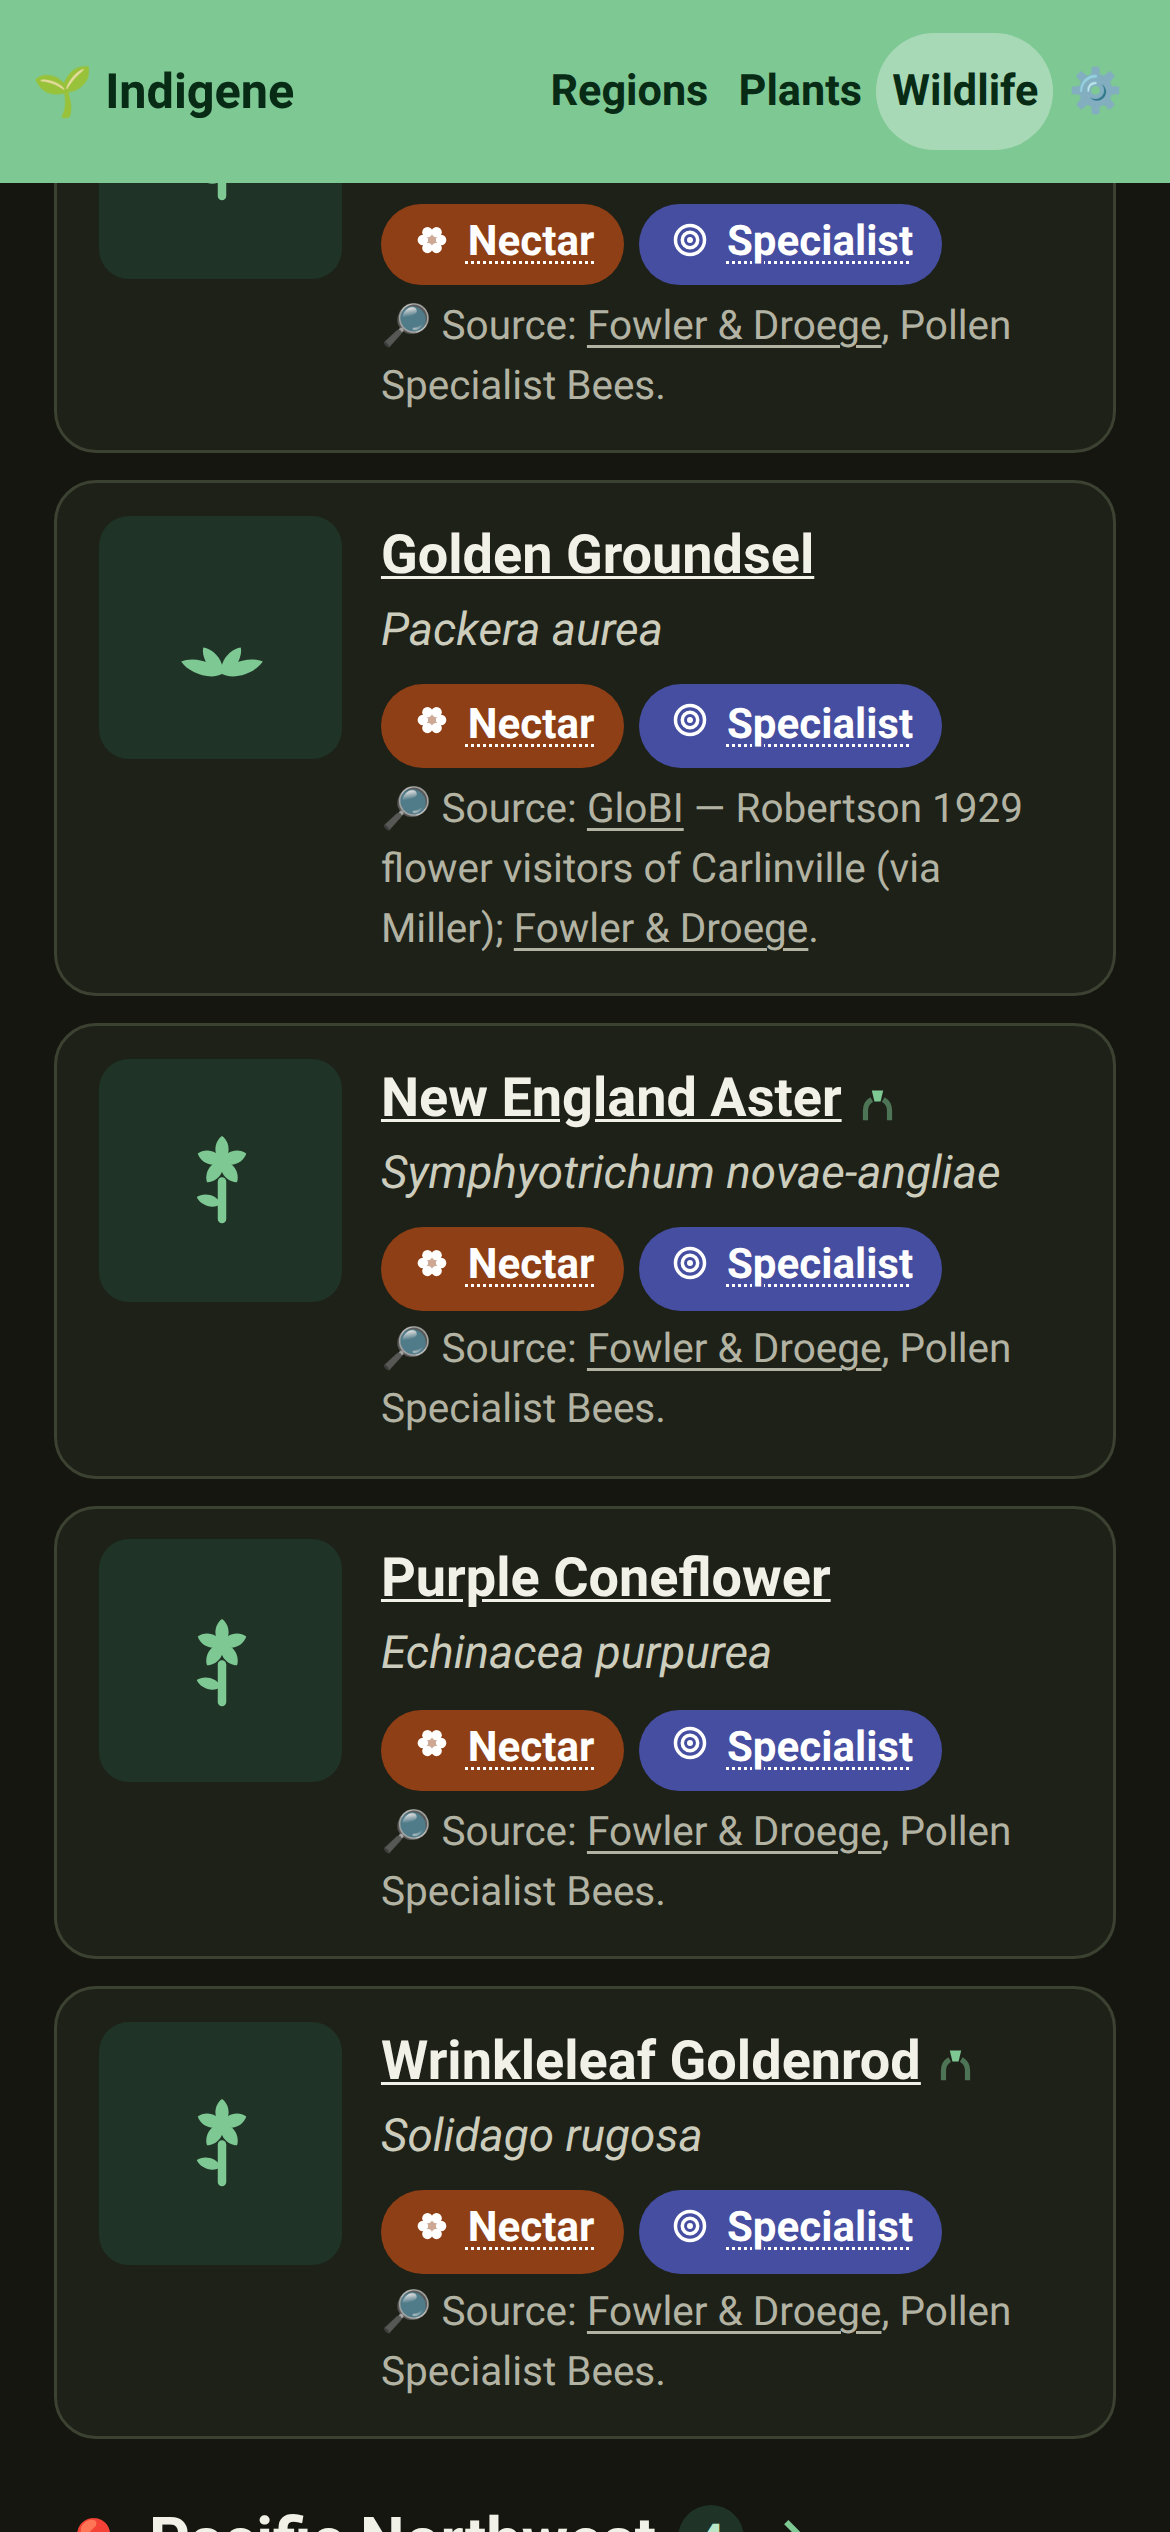
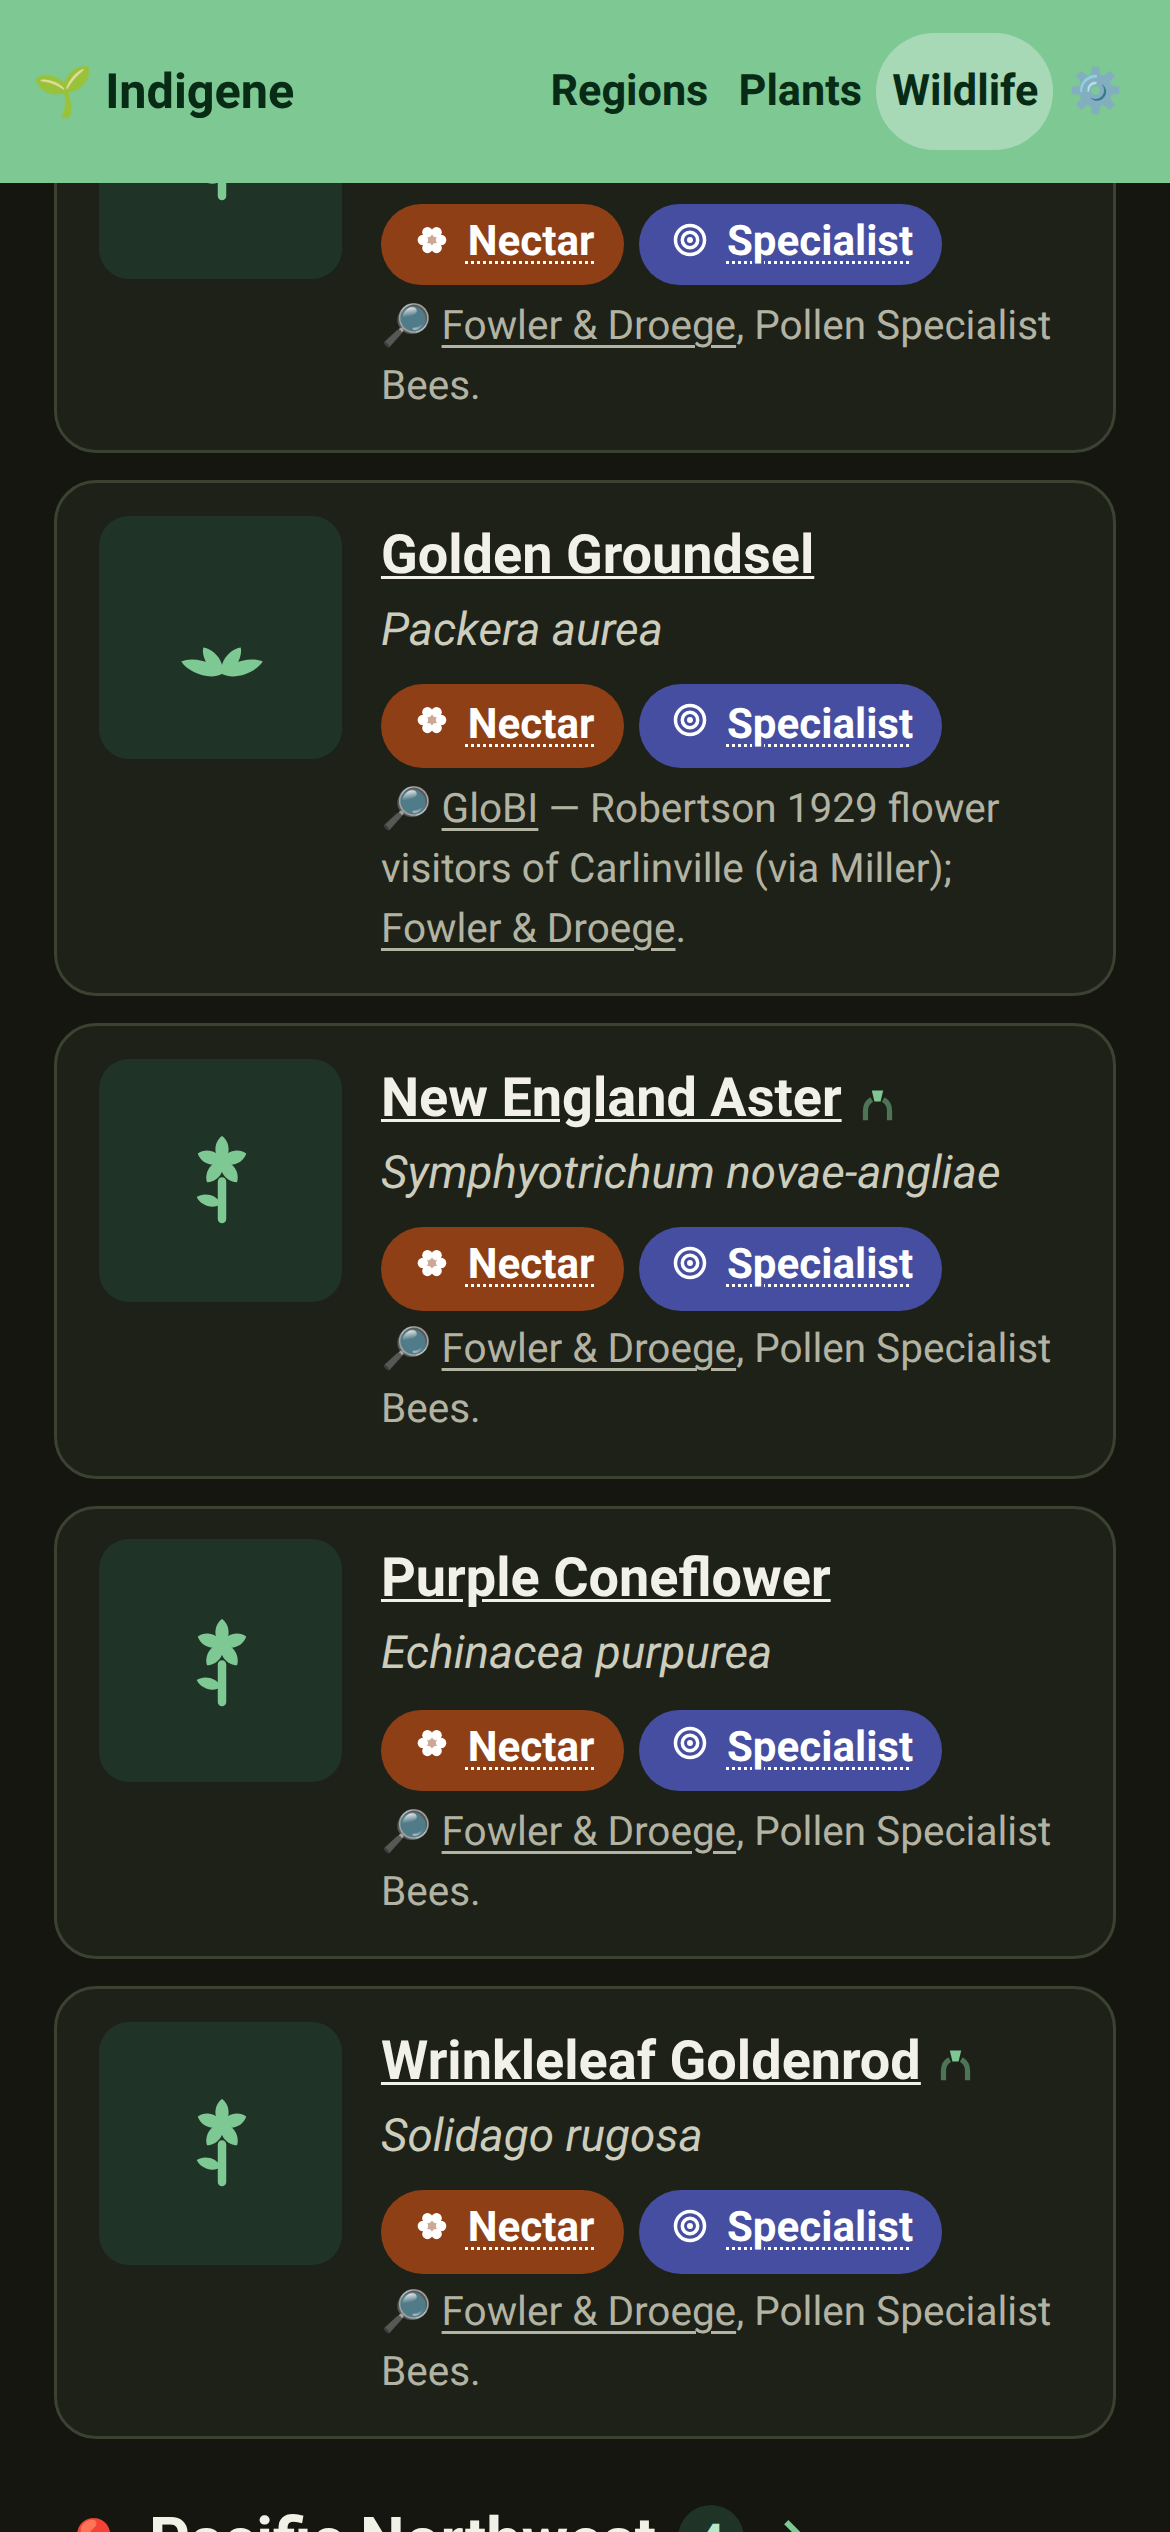
Show the tallies only where they beat counting by eye
"Raises young on: 1" above two plants is the page counting to two for
the reader — every one of those facts is already a chip on the card
that carries it. The tiles now follow the same rule the filter does:
past a screenful of plants, where you can't tally by scrolling.

The source line drops its visible "Source:" label with it. The
magnifier and a row of linked authorities say as much, once per card
down a list of twenty; screen readers still get the word.

Claude-Session: https://claude.ai/code/session_011kBroCVpHqAdAR7riv9XDP

diff --git a/app/src/steps/wildlife.ts b/app/src/steps/wildlife.ts
@@ -62,6 +62,14 @@ import { reportUntranslated } from "../components/wip-banner";
 // was active when this module first loaded.
 const coverageNote = (): string => t("wildlife.coverageNote");
 
+/**
+ * Past how many plants an animal's page grows tools for its list — the tally
+ * tiles above it and the type-to-narrow field on top of it. Roughly a phone
+ * screenful of cards: below that the list answers both for itself, and the
+ * median animal here supports three plants.
+ */
+const LONG_LIST = 6;
+
 // …rendered as what it is: a footnote, not a paragraph. It used to run five
 // lines above the buttons in body type, which reads as something the page
 // wants you to stop and read; the two sentences that actually qualify what's
@@ -567,11 +575,12 @@ export async function renderWildlife(main: HTMLElement, param?: string): Promise
               ...citation(w.nativeBasis),
             ]),
             speciesLink(w),
-            // What's true of *some* of the plants below: how many raise its
-            // young, how many shelter it, how many it has no substitute for.
-            // How many there are in total isn't here — that's the heading of
-            // the list itself, a screen down.
-            reachTiles(w, names.title, { hosts, shelter, soleCount }),
+            // How many of the plants below raise its young, shelter it, or
+            // have no substitute — but only on a list too long to tally by
+            // eye. Every one of those facts is a chip on the card that carries
+            // it, so on a page with three plants the tiles are the reader
+            // counting to three for us.
+            supports.length > LONG_LIST ? reachTiles(w, names.title, { hosts, shelter, soleCount }) : null,
           ]),
         ]),
       ]),
@@ -614,10 +623,8 @@ export async function renderWildlife(main: HTMLElement, param?: string): Promise
   if (byRegion.length > 1) {
     main.append(sectionTitle("🌱", t("wildlife.plantsHeading"), fmtNumber(filterRows.length)));
   }
-  // The roster's filter, on the pages that need one. Most animals here have
-  // three or four plants — a search field over a list you can already see is
-  // clutter — so it appears past a phone screenful of cards.
-  if (filterRows.length > 6) main.append(plantFilterField(filterRows, sections));
+  // The roster's filter, on the pages that need one — same rule as the tiles.
+  if (filterRows.length > LONG_LIST) main.append(plantFilterField(filterRows, sections));
   main.append(...groups);
 
   main.append(
@@ -723,9 +730,12 @@ function supportRow(s: PlantSupport): FilterRow {
       sub,
       el("div", { style: "display:flex;flex-wrap:wrap;gap:0.3rem;margin-top:0.35rem" }, tieTags(s)),
       // Every relationship shows its source, with authority names linked out.
+      // The word "Source:" is only there for a screen reader now: on screen the
+      // magnifier and a row of linked authorities say it, and this line repeats
+      // once per card down a list of twenty.
       el("div", { style: "font-size:0.75rem;color:var(--ink-soft);opacity:0.85;margin-top:0.2rem" }, [
         el("span", { "aria-hidden": "true" }, "🔎 "),
-        t("card.source"),
+        el("span", { class: "sr-only" }, t("card.source")),
         ...citation(s.link.basis),
       ]),
     ]),

diff --git a/CHANGELOG.md b/CHANGELOG.md
@@ -92,6 +92,9 @@ subtitle on the What's new page.
 - **A way to search a long list.** An animal with more than a screenful of
   plants gets the same type-to-narrow box the region lists have — try it on the
   [sunflower-family specialist bees](https://indigene.app/wildlife/sunflower-specialist-bees).
+- **The tallies show up where they tell you something.** "Raises young on: 1"
+  over a list of two plants was counting to two for you. Those boxes now wait
+  for the long lists, like the [monarch](https://indigene.app/wildlife/monarch)'s.
 - **"It's yours" now includes taking it with you.**
   [Privacy](https://indigene.app/privacy) and [About](https://indigene.app/about)
   both say so, and Privacy links straight to the button that does it.
